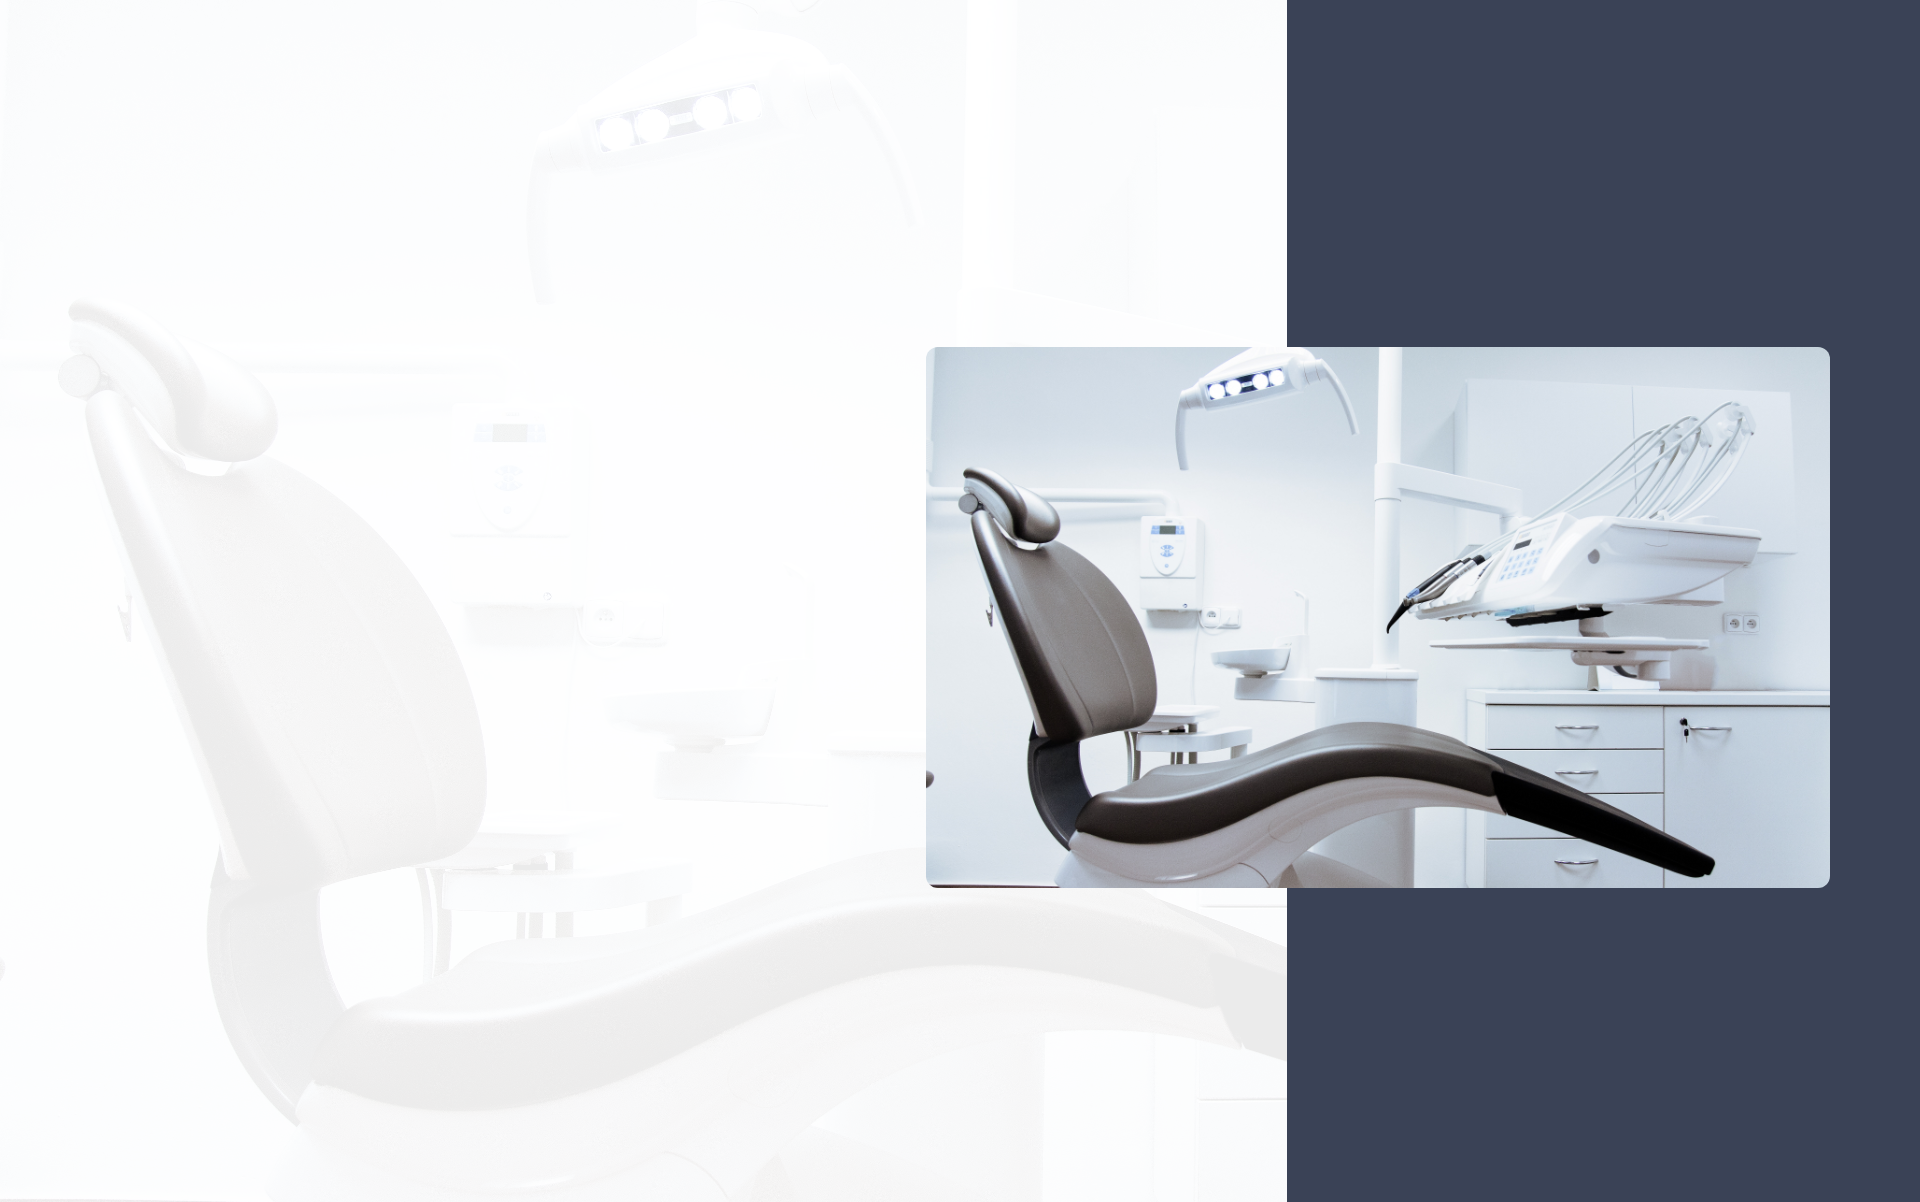
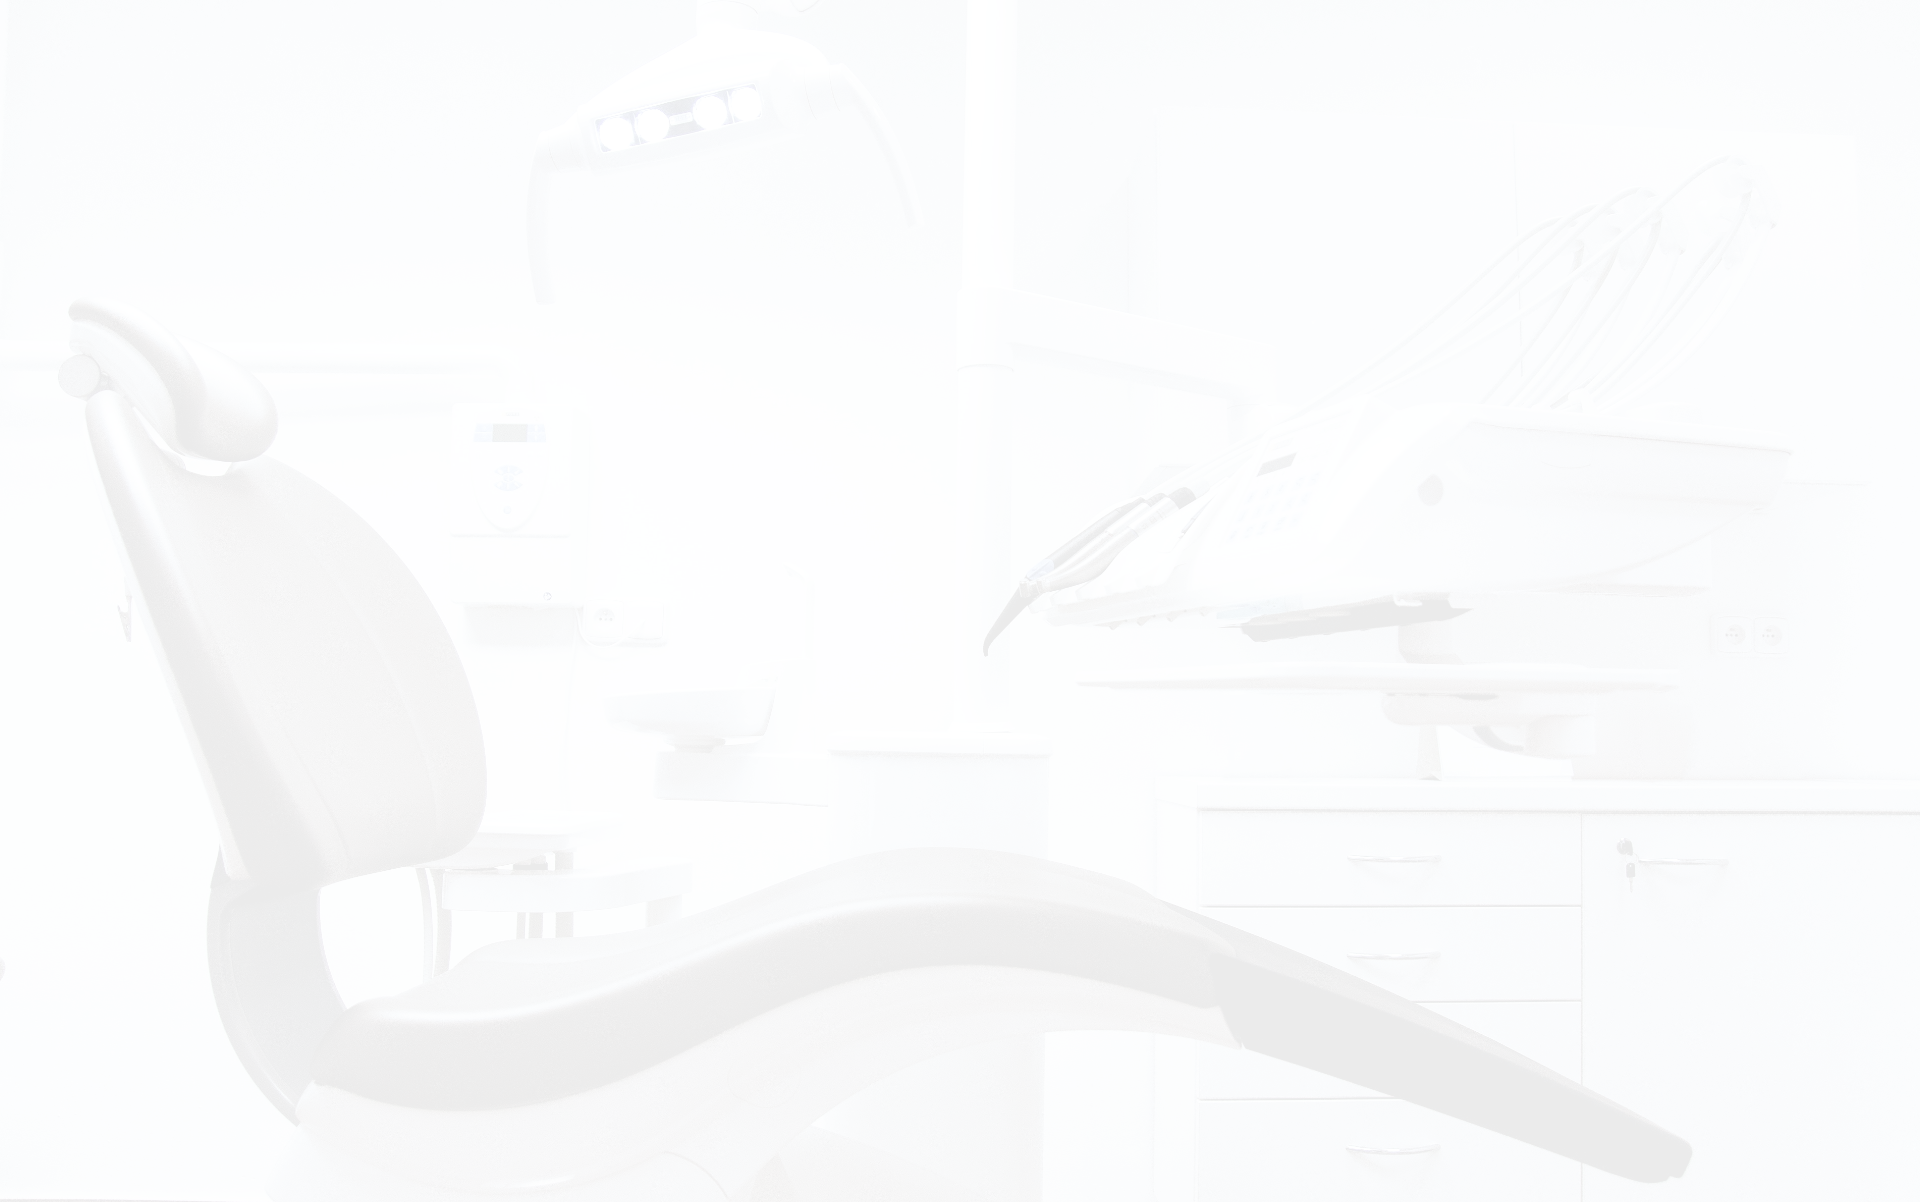
Up to date header section of home page

diff --git a/src/components/Routes/Routes.js b/src/components/Routes/Routes.js
@@ -3,24 +3,23 @@ import {
     Switch,
     Route
 } from "react-router-dom";
-import Home from '../Home/Home';
-import PatientForm from '../PatientForm/PatientForm';
-import BookAppointments from '../BookAppointments/BookAppointments';
-import Navbar from '../Navbar/Navbar';
-import DashboardRoutes from '../Dashboard/DashboardRoutes/DashboardRoutes';
+import Home from '../Home/Home/Home';
+// import PatientForm from '../PatientForm/PatientForm';
+// import BookAppointments from '../BookAppointments/BookAppointments';
+// import Navbar from '../Home/Navbar/Navbar';
+// import DashboardRoutes from '../Dashboard/DashboardRoutes/DashboardRoutes';
 
 const Routes = () => {
     return (
         <Switch>
             <Route exact path="/">
-                <Navbar></Navbar>
                 <Home></Home>
             </Route>
             <Route path="/home">
-                <Navbar></Navbar>
                 <Home></Home>
             </Route>
-            <Route path="/booking">
+
+            {/* <Route path="/booking">
                 <Navbar></Navbar>
                 <BookAppointments></BookAppointments>
             </Route>
@@ -30,7 +29,7 @@ const Routes = () => {
             </Route>
             <Route path="/dashboard">
                 <DashboardRoutes></DashboardRoutes>
-            </Route>
+            </Route> */}
             <Route path="*"><h1>Not Found The Page</h1></Route>
         </Switch>
     );

diff --git a/src/components/Home/BusinessInfo/BusinessInfo.js b/src/components/Home/BusinessInfo/BusinessInfo.js
@@ -1,0 +1,39 @@
+import React from 'react';
+import InfoCard from '../InfoCard/InfoCard';
+import AccessTimeIcon from '@material-ui/icons/AccessTime';
+import LocationOnIcon from '@material-ui/icons/LocationOn';
+import CallIcon from '@material-ui/icons/Call';
+
+const BusinessInfo = () => {
+    const businessInfo = [
+        {
+            title: 'Opening Hours',
+            description: 'lorem ipsum dolor sit amet, consectetur adipiscing elit',
+            icon: AccessTimeIcon,
+            background: 'secondary'
+        },
+        {
+            title: 'Visit our location',
+            description: 'Brookly, NY 10036, United States',
+            icon: LocationOnIcon,
+            background: 'dark'
+        },
+        {
+            title: 'Contact us now',
+            description: '+00012345 99',
+            icon: CallIcon,
+            background: 'secondary'
+        }
+    ];
+    return (
+        <section className="d-flex justify-content-center">
+           <div className="row">
+                {
+                    businessInfo.map(info => <InfoCard info={info}></InfoCard>)
+                }
+           </div>
+        </section>
+    );
+};
+
+export default BusinessInfo;

diff --git a/src/components/Home/HeaderMain/HeaderMain.js b/src/components/Home/HeaderMain/HeaderMain.js
@@ -1,0 +1,21 @@
+import React from 'react';
+import chair from '../../../images/chair.png';
+
+const HeaderMain = () => {
+    return (
+        <main>
+            <div className="row d-flex align-items-center" style={{height:'600px'}}>
+                <div className="col-md-4 offset-1">
+                    <h2 style={{color:'#3A4256'}}>Your New Smile <br/> Start Here</h2>
+                    <p className="text-secondary">Lorem ipsum dolor sit amet consectetur, adipisicing elit. Tenetur blanditiis rem quasi incidunt ullam debitis temporibus, cupiditate laudantium exercitationem quaerat magnam ex possimus officiis voluptatem rerum architecto expedita? Consequatur, laborum.</p>
+                    <button className="btn btn-primary text-uppercase">Get Appointment</button>
+                </div>
+                <div className="col-md-6">
+                    <img src={chair} alt="" className="img-fluid"/>
+                </div>
+            </div>
+        </main>
+    );
+};
+
+export default HeaderMain;

diff --git a/src/components/Home/Navbar/Navbar.js b/src/components/Home/Navbar/Navbar.js
@@ -15,9 +15,9 @@ const Navbar = () => {
                 <NavLink className="nav-item nav-link" to="/home">Home <span className="sr-only">(current)</span></NavLink>
                 <NavLink className="nav-item nav-link" to="/about">About</NavLink>
                 <NavLink className="nav-item nav-link" to="/services">Dental Services</NavLink>
-                <NavLink className="nav-item nav-link" to="/dashboard">Reviews</NavLink>
-                <NavLink className="nav-item nav-link" to="/blog">Blog</NavLink>
-                <NavLink className="nav-item nav-link" to="/contact">Contact Us</NavLink>
+                <NavLink className="nav-item nav-link text-white" to="/dashboard">Reviews</NavLink>
+                <NavLink className="nav-item nav-link text-white" to="/blog">Blog</NavLink>
+                <NavLink className="nav-item nav-link text-white" to="/contact">Contact Us</NavLink>
                 </div>
             </div>
             </nav>

diff --git a/src/components/Home/InfoCard/InfoCard.js b/src/components/Home/InfoCard/InfoCard.js
@@ -1,0 +1,20 @@
+import React from 'react';
+import './InfoCard.css';
+
+const InfoCard = ({ info }) => {
+    return (
+        <div className="col-md-4 text-white">
+            <div className={`d-flex info-container info-${info.background}`}>
+                <div>
+                    {<info.icon style={{fontSize:'40px', marginRight:'10px'}}/>}
+                </div>
+                <div>
+                    <h5>{info.title}</h5>
+                    <small>{info.description}</small>
+                </div>
+            </div>
+        </div>
+    );
+};
+
+export default InfoCard;

diff --git a/src/components/Home/Header/Header.js b/src/components/Home/Header/Header.js
@@ -1,0 +1,17 @@
+import React from 'react';
+import './Header.css';
+import HeaderMain from '../HeaderMain/HeaderMain';
+import Navbar from '../Navbar/Navbar';
+import BusinessInfo from '../BusinessInfo/BusinessInfo';
+
+const Header = () => {
+    return (
+        <div className="header-container">
+            <Navbar></Navbar>
+            <HeaderMain></HeaderMain>
+            <BusinessInfo></BusinessInfo>
+        </div>
+    );
+};
+
+export default Header;

diff --git a/src/components/Home/Header/Header.css b/src/components/Home/Header/Header.css
@@ -1,0 +1,17 @@
+.header-container {
+    background-image: url('../../../images/background.png');
+    background-size: cover;
+    height:700px;
+    width:100%;
+    position:relative;
+}
+.header-container::after{
+    height:700px;
+    content:' ';
+    position: absolute;
+    top: 0;
+    width: 33%;
+    right: 0;
+    background-color: #3A4256;
+    z-index: -55;
+}

diff --git a/src/components/Home/InfoCard/InfoCard.css b/src/components/Home/InfoCard/InfoCard.css
@@ -1,0 +1,17 @@
+.info-container {
+    border-radius: 5px;
+    height: 120px;
+    padding: 40px;
+}
+
+.info-secondary {
+    background-color: #1CC7C1;
+}
+
+.info-dark {
+    background-color: #3A4256;
+}
+
+.info-card-icon {
+    font-size: 40px;
+}

diff --git a/src/components/Home/Home/Home.js b/src/components/Home/Home/Home.js
@@ -1,0 +1,12 @@
+import React from 'react';
+import Header from '../Header/Header';
+
+const Home = () => {
+    return (
+        <div>
+           <Header></Header>
+        </div>
+    );
+};
+
+export default Home;

diff --git a/src/components/Home/Navbar/Navbar.css b/src/components/Home/Navbar/Navbar.css
@@ -1,0 +1,3 @@
+.nav-link {
+    margin: 0 40px;
+}
